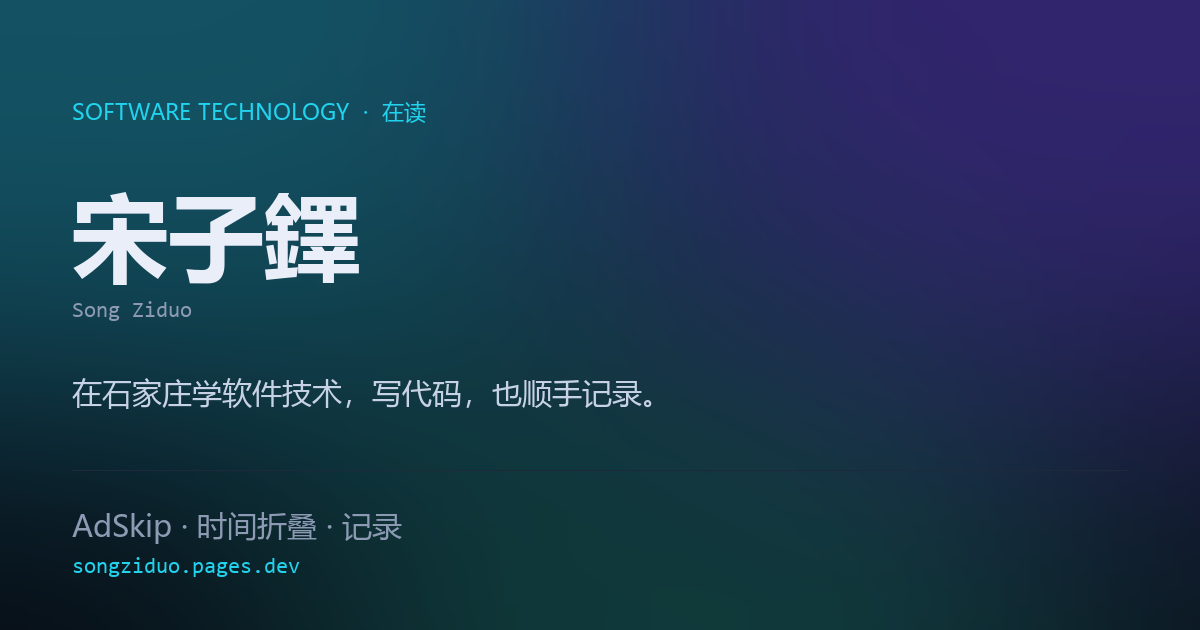
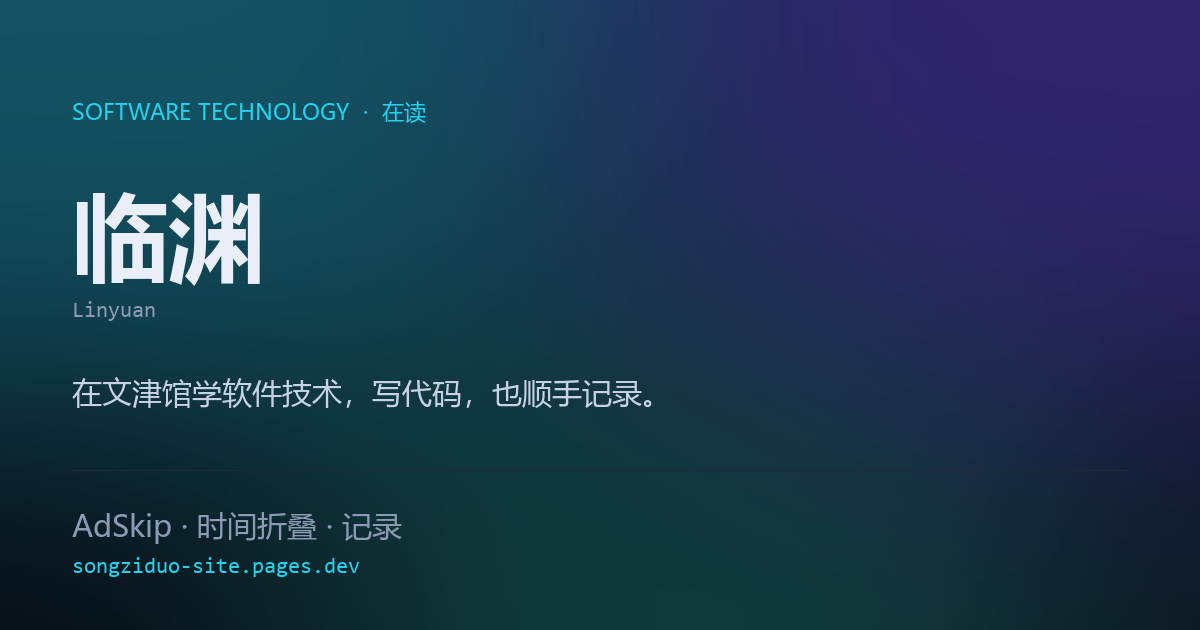
feat: rename identity to 临渊 / 文津馆

diff --git a/src/data/site.ts b/src/data/site.ts
@@ -1,15 +1,15 @@
 export const site = {
-  name: "宋子鐸",
-  nameAlt: "宋子铎",
-  nameEn: "Song Ziduo",
-  url: "https://songziduo.pages.dev",
+  name: "临渊",
+  nameAlt: "Linyuan",
+  nameEn: "Linyuan",
+  url: "https://songziduo-site.pages.dev",
   email: "songqiduo427@qq.com",
-  school: "河北政法职业学院",
-  schoolEn: "Hebei Vocational College of Politics and Law",
+  school: "文津馆",
+  schoolEn: "Wenjin Hall",
   major: "软件技术",
-  tagline: "在石家庄学软件技术，写代码，也顺手记录。",
+  tagline: "在文津馆学软件技术，写代码，也顺手记录。",
   intro:
-    "我是宋子鐸，河北政法职业学院软件技术专业在读。平时用 C、C#、MySQL 写东西，习惯把 AI agent 当搭子——从拆需求到查 bug 都一起过一遍。这个站存三样东西：做完的项目、踩过的坑、还在折腾的实验。",
+    "我是临渊，在文津馆学软件技术。平时用 C、C#、MySQL 写东西，习惯把 AI agent 当搭子——从拆需求到查 bug 都一起过一遍。这个站存三样东西：做完的项目、踩过的坑、还在折腾的实验。",
   status: "最近：把项目一个个搬上来，顺手把这个站做对。",
   skills: ["C", "C#", "MySQL", "Kotlin", "计算机网络", "AI Agent 协作", "Office"],
   certs: ["计算机应用工程师（中级）", "NIT", "普通话二级"],

diff --git a/scripts/make-assets.py b/scripts/make-assets.py
@@ -61,12 +61,12 @@ f_mono = font([r"C:\Windows\Fonts\consola.ttf", r"C:\Windows\Fonts\cour.ttf"], 2
 
 d = ImageDraw.Draw(og)
 d.text((72, 96), "SOFTWARE TECHNOLOGY  ·  在读", font=f_kick, fill=(34, 211, 238))
-d.text((72, 170), "宋子鐸", font=f_name, fill=(233, 238, 249))
-d.text((72, 300), "Song Ziduo", font=f_mono, fill=(141, 154, 180))
-d.text((72, 372), "在石家庄学软件技术，写代码，也顺手记录。", font=f_sub, fill=(200, 210, 230))
+d.text((72, 170), "临渊", font=f_name, fill=(233, 238, 249))
+d.text((72, 300), "Linyuan", font=f_mono, fill=(141, 154, 180))
+d.text((72, 372), "在文津馆学软件技术，写代码，也顺手记录。", font=f_sub, fill=(200, 210, 230))
 d.line((72, 470, 1128, 470), fill=(30, 42, 60), width=1)
 d.text((72, 505), "AdSkip · 时间折叠 · 记录", font=f_sub, fill=(141, 154, 180))
-d.text((72, 556), "songziduo.pages.dev", font=f_mono, fill=(34, 211, 238))
+d.text((72, 556), "songziduo-site.pages.dev", font=f_mono, fill=(34, 211, 238))
 
 og.save(os.path.join(OUT, "og.png"), optimize=True)
 print("avatar:", Image.open(os.path.join(OUT, "avatar.jpg")).size)

diff --git a/README.md b/README.md
@@ -1,6 +1,6 @@
 # songziduo-site
 
-宋子鐸的个人主页。Astro 静态输出，部署目标是 Cloudflare Pages。
+临渊（Linyuan）的个人主页。Astro 静态输出，部署在 Cloudflare Pages。
 
 ## 页面
 
